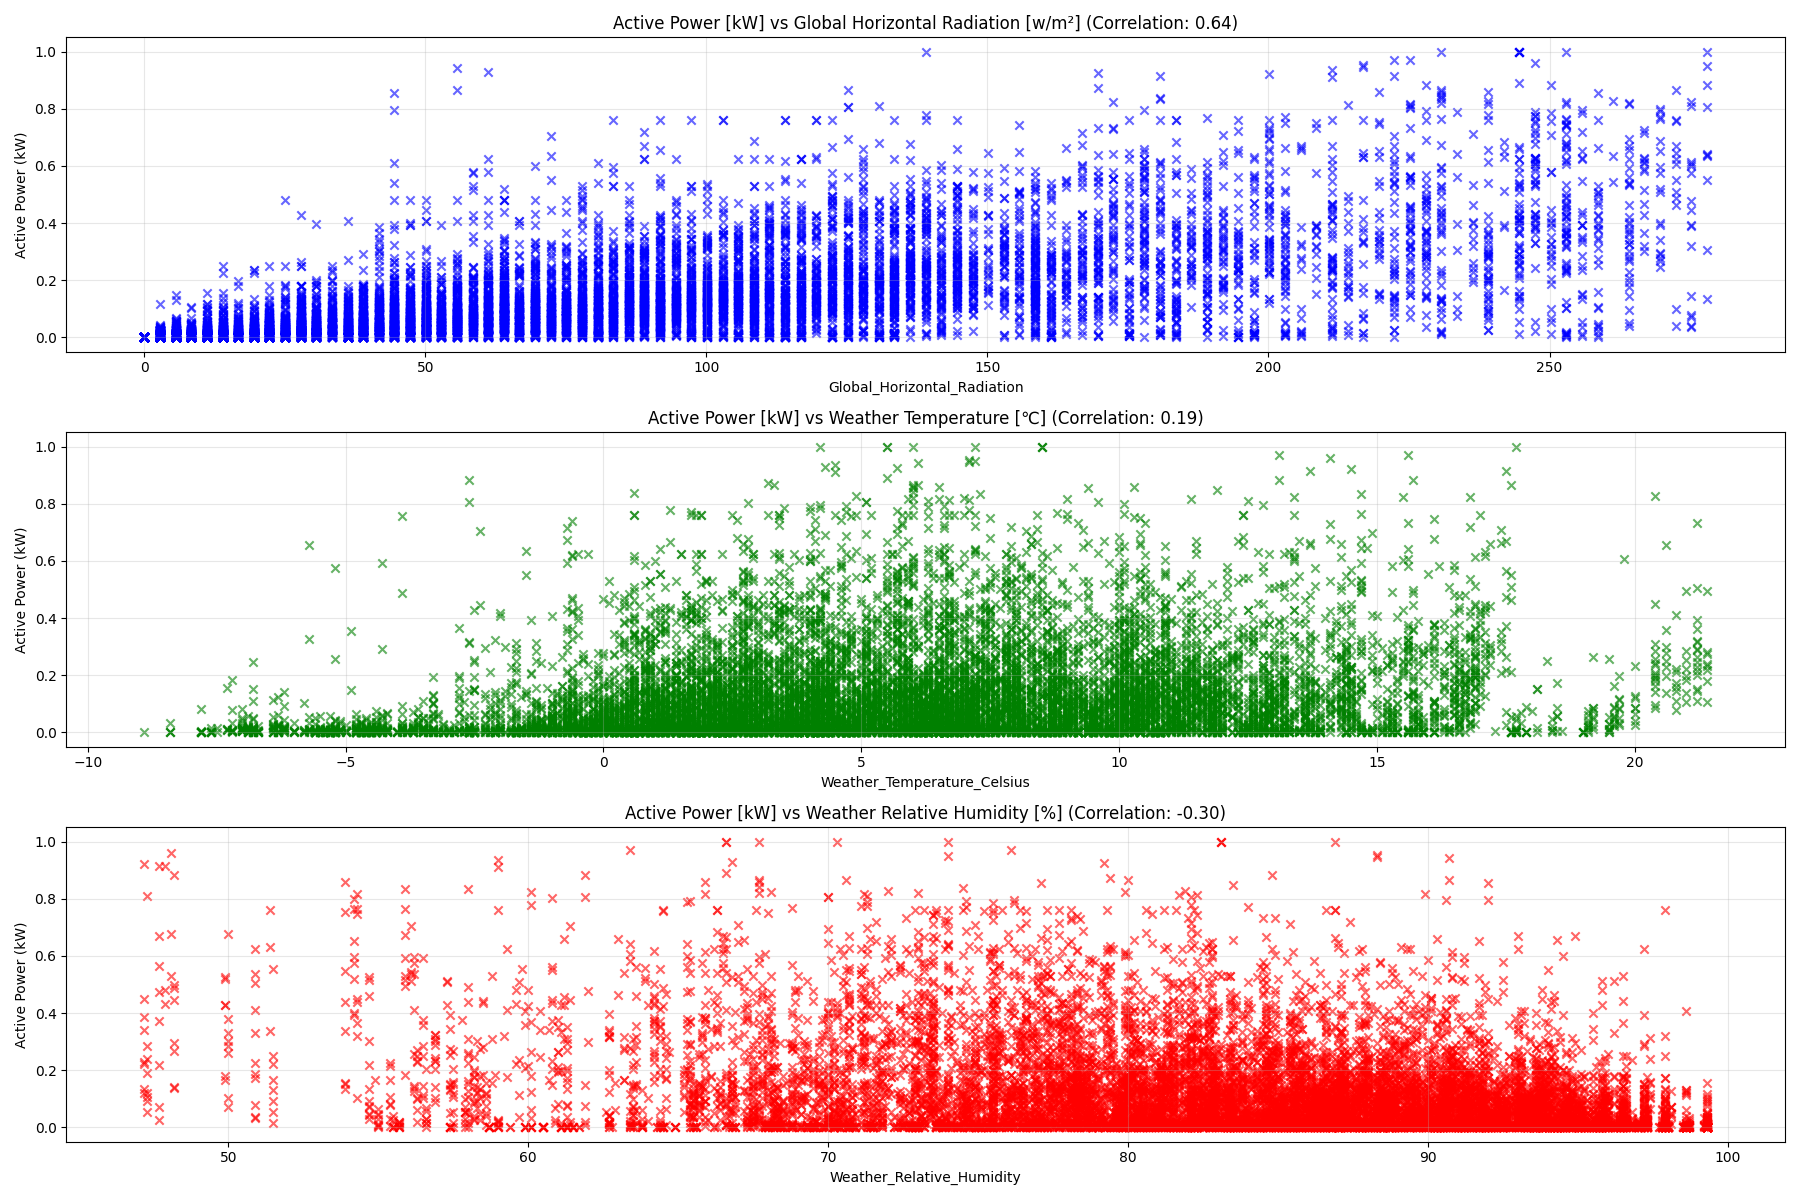
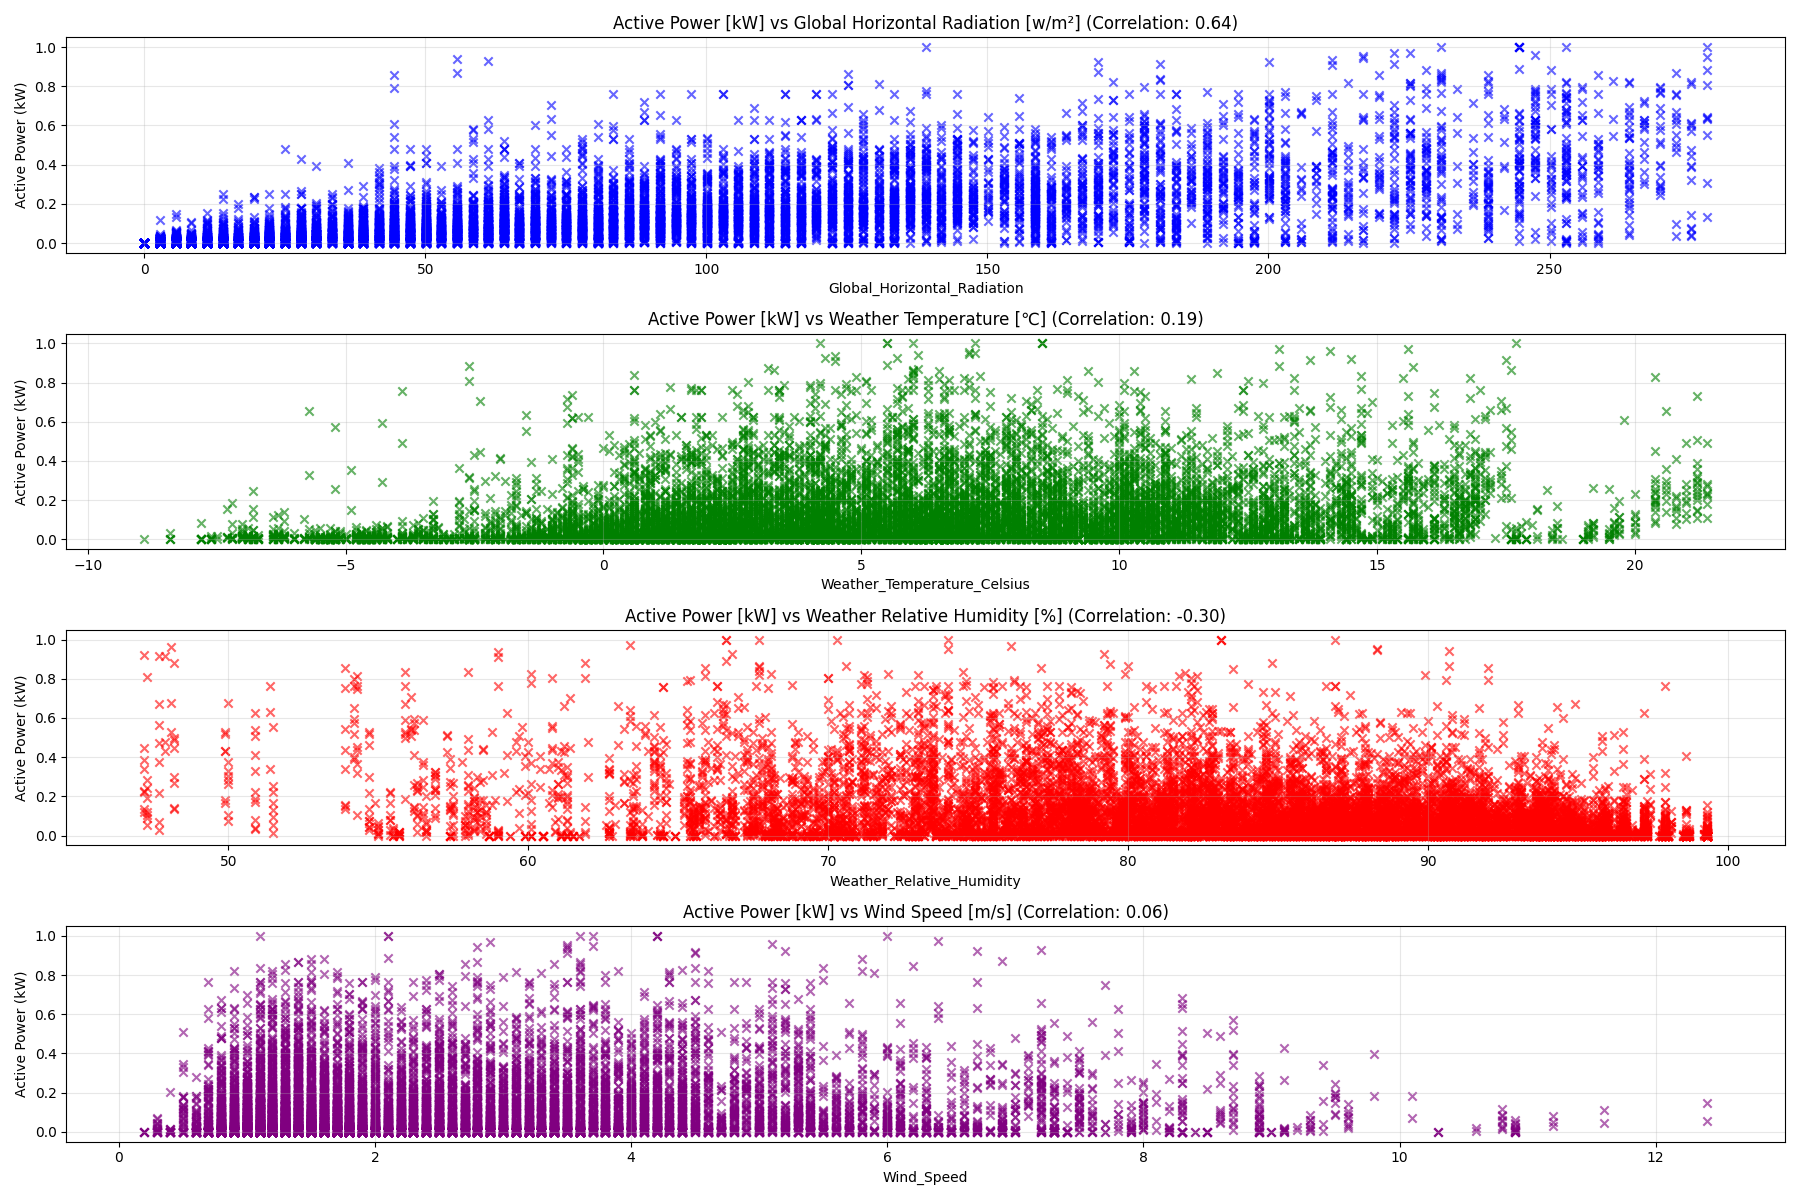
update: add wind speed

diff --git a/data_preprocessing/German/1_pre_process.py b/data_preprocessing/German/1_pre_process.py
@@ -27,7 +27,7 @@ def combine_into_each_invertor(invertor_name, index_of_invertor,
     capacity = tenth_largest_value
 
     '''1. Extract only necessary columns'''
-    df = raw_df[['timestamp', invertor_name, 'Global_Horizontal_Radiation', 'Weather_Relative_Humidity', 'Weather_Temperature_Celsius']]
+    df = raw_df[['timestamp', invertor_name, 'Global_Horizontal_Radiation', 'Weather_Relative_Humidity', 'Weather_Temperature_Celsius', 'Wind_Speed']]
     df = cumulative_to_increment(df, invertor_name)
     df = df.rename(columns={invertor_name: 'Active_Power'})
 
@@ -117,11 +117,13 @@ def combine_into_each_invertor(invertor_name, index_of_invertor,
     df_cleaned_6.to_csv(os.path.join(save_dir, f'{invertor_name}.csv'), index=False)
 
 
-def merge_raw_data(active_power_path, temp_path, ghi_path, moisture_path):
+def merge_raw_data(active_power_path, temp_path, ghi_path, moisture_path, wind_path):
     active_powers = pd.read_csv(active_power_path)
     temp = pd.read_csv(temp_path, sep=";", na_values='-999')
     ghi = pd.read_csv(ghi_path, sep=";", na_values='-999')
     moisture = pd.read_csv(moisture_path, sep=";", na_values='-999')
+    wind = pd.read_csv(wind_path, sep=";", na_values='-999')
+    print(wind.head())
 
     active_powers['utc_timestamp'] = pd.to_datetime(active_powers['utc_timestamp'], utc=True)
     active_powers['timestamp'] = active_powers['utc_timestamp'] + pd.Timedelta(hours=1)  # Convert to local time (UTC+1)
@@ -131,6 +133,7 @@ def merge_raw_data(active_power_path, temp_path, ghi_path, moisture_path):
     temp['timestamp'] = pd.to_datetime(temp['MESS_DATUM'], format='%Y%m%d%H')
     ghi['timestamp'] = pd.to_datetime(ghi['MESS_DATUM'].str.split(":").str[0], format='%Y%m%d%H')
     moisture['timestamp'] = pd.to_datetime(moisture['MESS_DATUM'], format='%Y%m%d%H')
+    wind['timestamp'] = pd.to_datetime(wind['MESS_DATUM'], format='%Y%m%d%H')
 
     invertor_list = [
     'DE_KN_industrial1_pv_1',
@@ -149,12 +152,15 @@ def merge_raw_data(active_power_path, temp_path, ghi_path, moisture_path):
     moisture[['timestamp', 'RF_STD']], on='timestamp', how='left'
     ).merge(
     temp[['timestamp', 'TT_TU']], on='timestamp', how='left'
-    ).merge(active_powers, on='timestamp', how='left')
+    ).merge(active_powers, on='timestamp', how='left').merge(
+        wind[['timestamp', '   F']], on='timestamp', how='left'
+    )
 
     rename_dict = {
     'FG_LBERG': 'Global_Horizontal_Radiation',  # Unit: J/cm^2
     'RF_STD': 'Weather_Relative_Humidity',      # Unit: %
-    'TT_TU': 'Weather_Temperature_Celsius'      # Unit: tenths of degree Celsius
+    'TT_TU': 'Weather_Temperature_Celsius',      # Unit: tenths of degree Celsius
+    '   F': 'Wind_Speed'
     }
 
     combined_data = combined_data.rename(columns=rename_dict)
@@ -208,7 +214,8 @@ if __name__ == '__main__':
     temp_path = os.path.join(project_root, 'data/Germany_Household_Data/Konstanz_weather_data/air_temperature/stundenwerte_TU_02712_19710101_20231231_hist/produkt_tu_stunde_19710101_20231231_02712.txt')
     ghi_path = os.path.join(project_root, 'data/Germany_Household_Data/Konstanz_weather_data/GHI_DHI/stundenwerte_ST_02712_row/produkt_st_stunde_19770101_20240731_02712.txt')
     moisture_path = os.path.join(project_root, 'data/Germany_Household_Data/Konstanz_weather_data/moisture/stundenwerte_TF_02712_19520502_20231231_hist/produkt_tf_stunde_19520502_20231231_02712.txt')
-    merged_data = merge_raw_data(active_power_path, temp_path, ghi_path, moisture_path)
+    wind_path = os.path.join(project_root, 'data/Germany_Household_Data/Konstanz_weather_data/wind/produkt_ff_stunde_19590701_20231231_02712.txt')
+    merged_data = merge_raw_data(active_power_path, temp_path, ghi_path, moisture_path, wind_path)
 
     invertor_list = [
     'DE_KN_industrial1_pv_1',

diff --git a/exp/exp_main.py b/exp/exp_main.py
@@ -227,8 +227,8 @@ class Exp_Main(Exp_Basic):
             print(f"Epoch: {epoch + 1} | cost time: {time.time() - epoch_time}")
             
             train_losses = np.average(train_losses)
-            vali_loss = self.vali(vali_data, vali_loader, criterion, denorm=0)
-            test_loss = self.vali(test_data, test_loader, criterion, denorm=1)
+            vali_loss = self.vali(vali_data, vali_loader, criterion)
+            test_loss = self.vali(test_data, test_loader, criterion)
             print(f"Epoch: {epoch + 1} | Train Loss: {train_losses:.7f}, Vali Loss: {vali_loss:.7f}, Test Loss: {test_loss:.7f}")
 
             # Log metrics for each epoch
@@ -267,7 +267,7 @@ class Exp_Main(Exp_Basic):
 
         return self.model
     
-    def vali(self, vali_data, vali_loader, criterion, denorm=0):
+    def vali(self, vali_data, vali_loader, criterion):
 
         def site_criterion(preds, targets, site_index, criterion):
             # site_index를 1차원 텐서로 변환
@@ -365,12 +365,13 @@ class Exp_Main(Exp_Basic):
                     
                     # active_power_np = vali_data.inverse_transform(site[:, 0], output_np.copy())
                     # active_power_gt_np = vali_data.inverse_transform(site[:, 0], batch_y_np.copy())
-                    if denorm:
-                        active_power_np = vali_data.inverse_transform(output_np.copy())
-                        active_power_gt_np = vali_data.inverse_transform(batch_y_np.copy())
-                    else:
-                        active_power_np = output_np
-                        active_power_gt_np = batch_y_np 
+                    active_power_np = vali_data.inverse_transform( output_np.copy())
+                    active_power_gt_np = vali_data.inverse_transform(batch_y_np.copy())
+                   
+
+                    # # scaler적용 후, 다시 3d로 되돌리기
+                    # active_power_np = active_power_np.reshape(output_np.shape[0], output_np.shape[1], -1)
+                    # active_power_gt_np = active_power_gt_np.reshape(batch_y_np.shape[0], batch_y_np.shape[1], -1)
 
 
                     pred = torch.from_numpy(active_power_np).to(self.device)

diff --git a/data_preprocessing/German/plot_correlation.py b/data_preprocessing/German/plot_correlation.py
@@ -43,15 +43,15 @@ correlations = combined_df.corr()['Active_Power']
 plt.figure(figsize=(18, 12))
 
 # List of features to plot
-# features = ['Global_Horizontal_Radiation', 'Weather_Temperature_Celsius', 'Weather_Relative_Humidity', 'Wind_Speed']
-features = ['Global_Horizontal_Radiation', 'Weather_Temperature_Celsius', 'Weather_Relative_Humidity']
+features = ['Global_Horizontal_Radiation', 'Weather_Temperature_Celsius', 'Weather_Relative_Humidity', 'Wind_Speed']
+# features = ['Global_Horizontal_Radiation', 'Weather_Temperature_Celsius', 'Weather_Relative_Humidity']
 # features = ['Global_Horizontal_Radiation', 'Weather_Temperature_Celsius', 'Wind_Speed']
 
 colors = ['blue', 'green', 'red', 'purple']
 titles = ['Active Power [kW] vs Global Horizontal Radiation [w/m²]',
           'Active Power [kW] vs Weather Temperature [℃]',
-          'Active Power [kW] vs Weather Relative Humidity [%]']
-          # 'Active Power [kW] vs Wind Speed [m/s]']
+          'Active Power [kW] vs Weather Relative Humidity [%]',
+          'Active Power [kW] vs Wind Speed [m/s]']
 
 # Loop through each feature and create a scatter plot
 for i, feature in enumerate(features):
